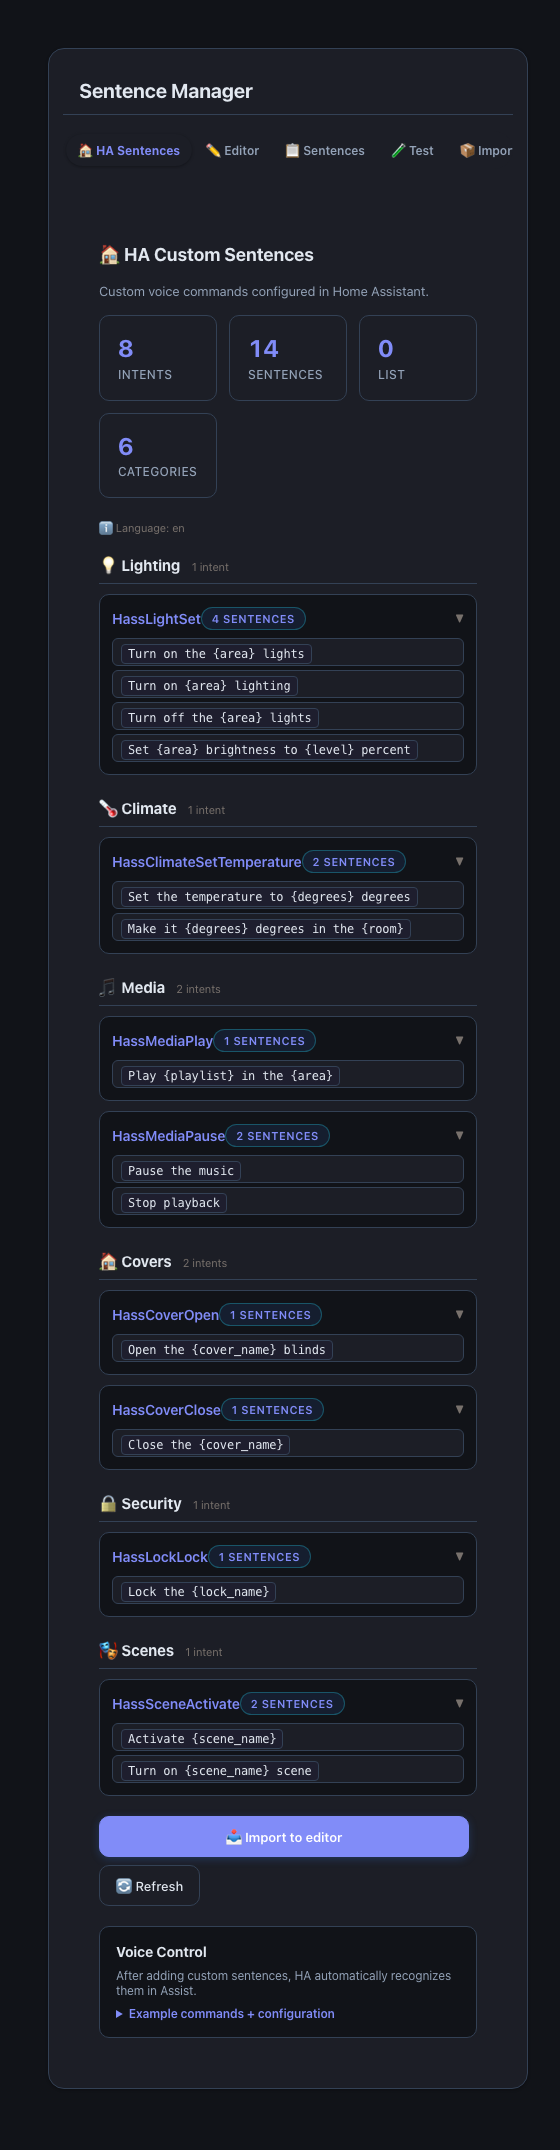
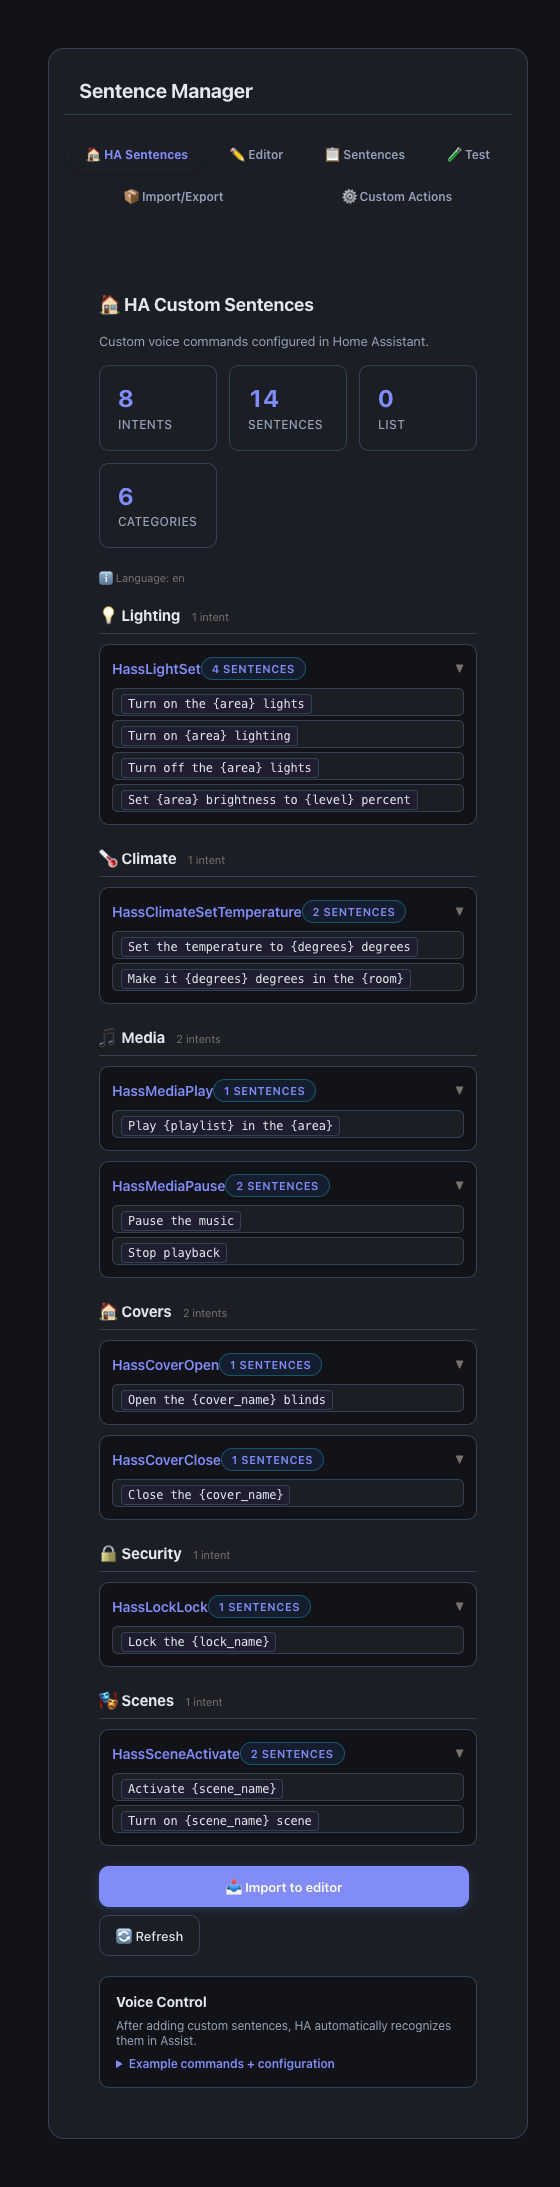
Refresh current tool screenshots and descriptions

diff --git a/README.md b/README.md
@@ -32,7 +32,9 @@ Manage Home Assistant Assist custom sentences (intents, slots, responses) from a
 |---|---|
 | ![HA Sentences tab, light theme](docs/screenshots/card-main-light.png) | ![HA Sentences tab, dark theme](docs/screenshots/card-main-dark.png) |
 
-*The default "HA Sentences" tab: stats (intents, sentences, slot lists, categories) and the persisted sentences grouped by category. Dark mode follows your Home Assistant theme automatically.*
+*The default "HA Sentences" tab with synthetic example phrases: intent,
+sentence, slot-list and category counts, grouped by category. Dark mode
+follows your Home Assistant theme.*
 
 ## Installation
 
